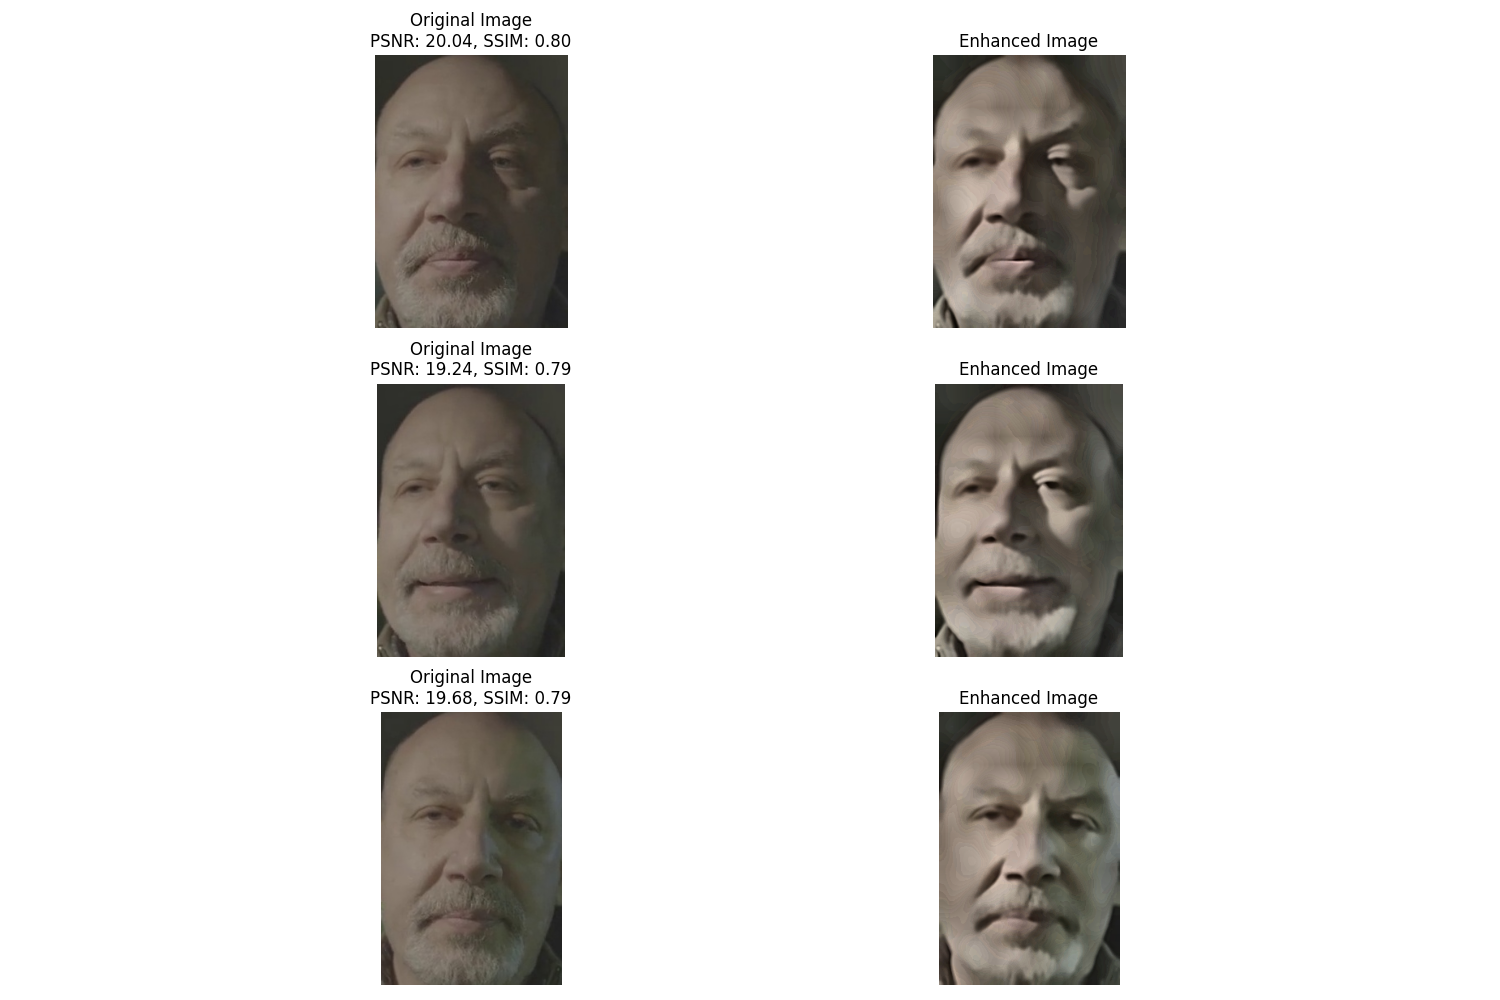
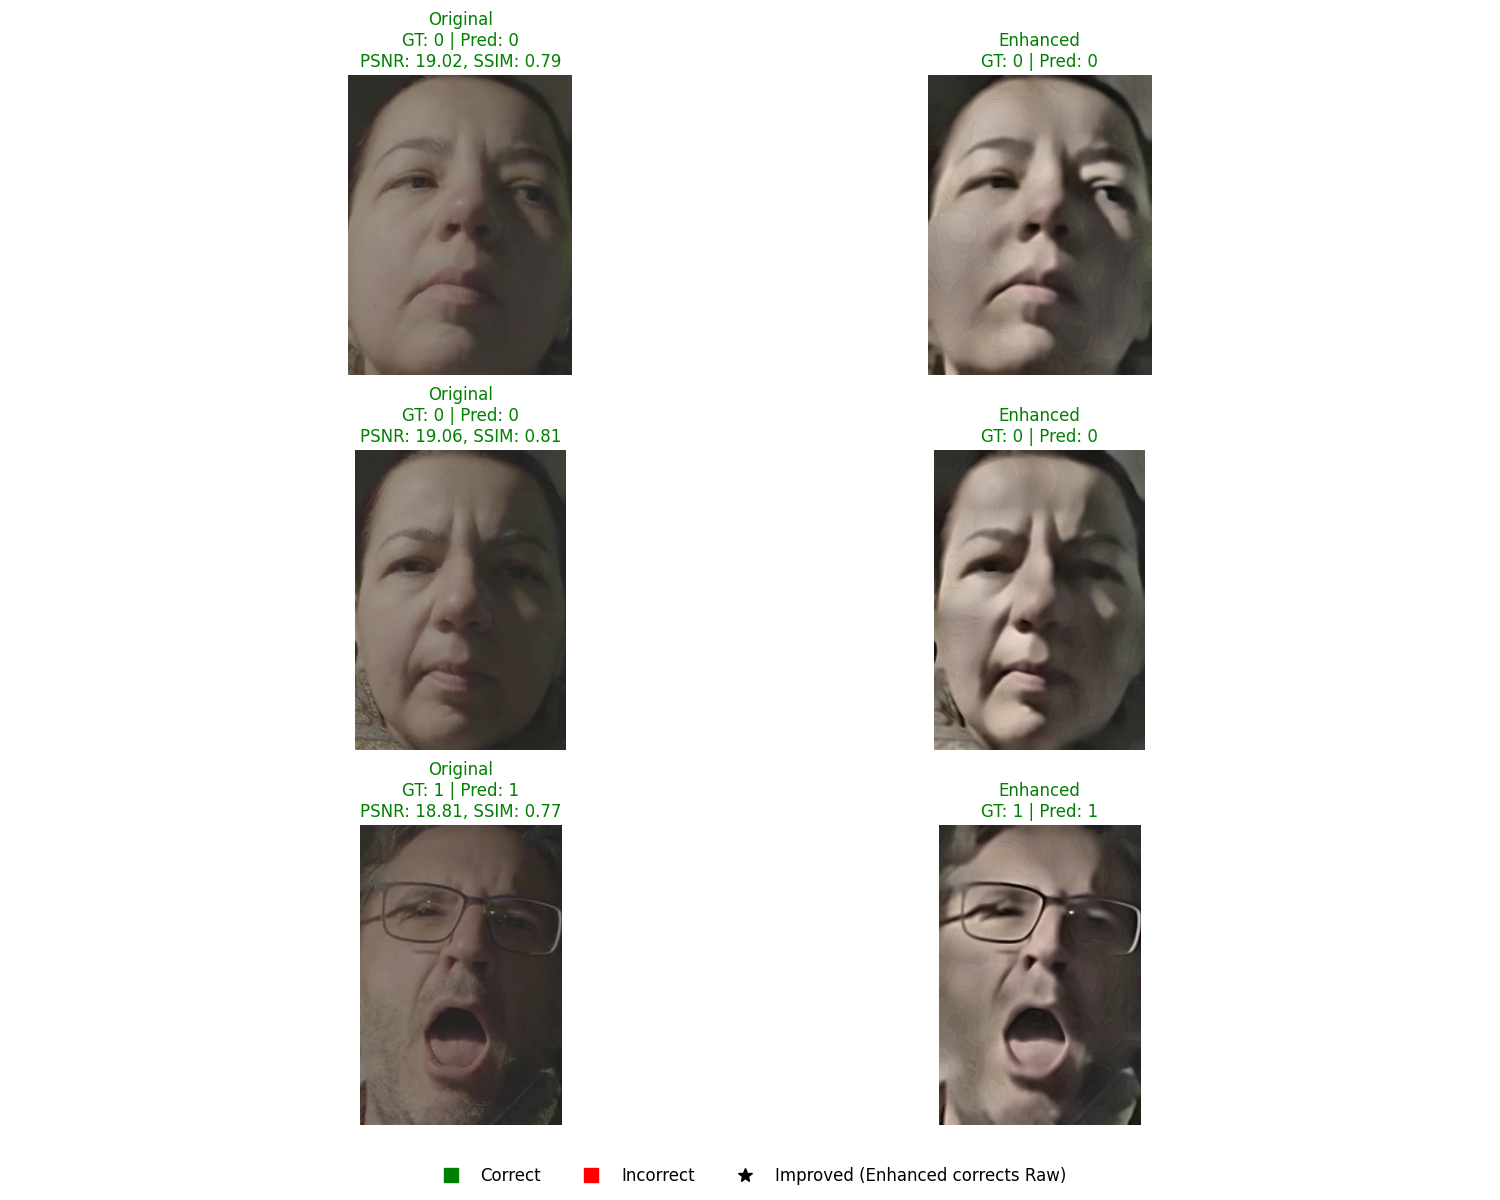
Final Push

Changed region(s): [[0.2147, 0.0, 0.46, 0.992], [0.4907, 0.031, 0.7667, 0.992]]

diff --git a/visualize_results.py b/visualize_results.py
@@ -9,6 +9,8 @@ import cv2
 from enhancement import ImageEnhancer
 from model import DrowsinessDetector
 from data_utils import FL3DDataset, organize_dataset
+import argparse
+from tqdm import tqdm
 
 def visualize_enhancement(image_paths, save_dir='visualization_results'):
     """Visualize original and enhanced images side by side."""
@@ -40,6 +42,78 @@ def visualize_enhancement(image_paths, save_dir='visualization_results'):
     plt.savefig(os.path.join(save_dir, 'enhancement_comparison.png'))
     plt.close()
 
+def visualize_enhancement_with_predictions(image_paths, model, transform, device, labels, save_dir='visualization_results'):
+    """Visualize original and enhanced images side by side with predictions and ground truth, using color coding."""
+    import matplotlib.patches as patches
+    os.makedirs(save_dir, exist_ok=True)
+    enhancer = ImageEnhancer()
+    plt.figure(figsize=(15, 12))
+    legend_handles = []
+    
+    for idx, img_path in enumerate(image_paths[:3]):  # Show first 3 images
+        # Read and enhance image
+        img = cv2.imread(img_path)
+        img_rgb = cv2.cvtColor(img, cv2.COLOR_BGR2RGB)
+        enhanced = enhancer.enhance(img_rgb)
+        gt_label = labels[idx]
+        
+        # Prepare images for model
+        raw_tensor = transform(img_rgb).unsqueeze(0).to(device)
+        enh_tensor = transform(enhanced).unsqueeze(0).to(device)
+        
+        # Get predictions
+        model.eval()
+        with torch.no_grad():
+            raw_pred = (torch.sigmoid(model(raw_tensor)).cpu().item() > 0.5)
+            enh_pred = (torch.sigmoid(model(enh_tensor)).cpu().item() > 0.5)
+        
+        # Determine correctness
+        raw_correct = (raw_pred == gt_label)
+        enh_correct = (enh_pred == gt_label)
+        
+        # Color coding
+        raw_color = 'green' if raw_correct else 'red'
+        enh_color = 'green' if enh_correct else 'red'
+        
+        # Special marker if enhancement corrects a misclassification
+        improved = (not raw_correct) and enh_correct
+        
+        # Calculate metrics
+        metrics = enhancer.calculate_metrics(img_rgb, enhanced)
+        
+        # Plot original image
+        ax1 = plt.subplot(3, 2, idx*2 + 1)
+        ax1.imshow(img_rgb)
+        title = f"Original\nGT: {gt_label} | Pred: {int(raw_pred)}\nPSNR: {metrics['psnr']:.2f}, SSIM: {metrics['ssim']:.2f}"
+        ax1.set_title(title, color=raw_color)
+        ax1.axis('off')
+        # Add colored border
+        for spine in ax1.spines.values():
+            spine.set_edgecolor(raw_color)
+            spine.set_linewidth(4)
+        
+        # Plot enhanced image
+        ax2 = plt.subplot(3, 2, idx*2 + 2)
+        ax2.imshow(enhanced)
+        enh_title = f"Enhanced\nGT: {gt_label} | Pred: {int(enh_pred)}"
+        if improved:
+            enh_title += "\nImproved!"
+        ax2.set_title(enh_title, color=enh_color)
+        ax2.axis('off')
+        for spine in ax2.spines.values():
+            spine.set_edgecolor(enh_color)
+            spine.set_linewidth(4)
+        
+    # Add legend
+    import matplotlib.lines as mlines
+    green_line = mlines.Line2D([], [], color='green', marker='s', linestyle='None', markersize=10, label='Correct')
+    red_line = mlines.Line2D([], [], color='red', marker='s', linestyle='None', markersize=10, label='Incorrect')
+    star = mlines.Line2D([], [], color='black', marker='*', linestyle='None', markersize=10, label='Improved (Enhanced corrects Raw)')
+    plt.figlegend(handles=[green_line, red_line, star], loc='lower center', ncol=3, fontsize=12, frameon=False)
+    plt.tight_layout(rect=[0, 0.05, 1, 1])
+    plt.savefig(os.path.join(save_dir, 'enhancement_comparison.png'))
+    plt.close()
+
 def evaluate_model(model, dataloader, device):
     """Evaluate model and return classification metrics."""
     model.eval()
@@ -47,10 +121,10 @@ def evaluate_model(model, dataloader, device):
     all_labels = []
     
     with torch.no_grad():
-        for images, labels in dataloader:
+        for images, labels in tqdm(dataloader, desc='Evaluating', leave=False):
             images = images.to(device)
             outputs = model(images)
-            preds = (outputs > 0.5).float().cpu().numpy()
+            preds = (torch.sigmoid(outputs) > 0.5).float().cpu().numpy()
             all_preds.extend(preds)
             all_labels.extend(labels.numpy())
     
@@ -95,7 +169,7 @@ def plot_metrics(metrics_raw, metrics_enhanced, save_dir='visualization_results'
     plt.savefig(os.path.join(save_dir, 'metrics_comparison.png'))
     plt.close()
 
-def main():
+def main(args):
     # Set device
     device = torch.device("mps" if torch.backends.mps.is_available() else 
                          "cuda" if torch.cuda.is_available() else "cpu")
@@ -114,57 +188,79 @@ def main():
     data_dir = 'data/classification_frames'
     data_splits = organize_dataset(data_dir)
     
-    # Create datasets
-    train_dataset = FL3DDataset(
-        data_splits['train'][0],
-        data_splits['train'][1],
+    # Create val and test datasets
+    val_dataset = FL3DDataset(
+        data_splits['val'][0],
+        data_splits['val'][1],
         transform=transform,
         enhanced=False
     )
-    
-    train_dataset_enhanced = FL3DDataset(
-        data_splits['train'][0],
-        data_splits['train'][1],
+    val_dataset_enhanced = FL3DDataset(
+        data_splits['val'][0],
+        data_splits['val'][1],
         transform=transform,
         enhanced=True
     )
-    
+    test_dataset = FL3DDataset(
+        data_splits['test'][0],
+        data_splits['test'][1],
+        transform=transform,
+        enhanced=False
+    )
+    test_dataset_enhanced = FL3DDataset(
+        data_splits['test'][0],
+        data_splits['test'][1],
+        transform=transform,
+        enhanced=True
+    )
     # Create dataloaders
-    train_loader = torch.utils.data.DataLoader(
-        train_dataset, batch_size=32, shuffle=False, num_workers=2)
-    train_loader_enhanced = torch.utils.data.DataLoader(
-        train_dataset_enhanced, batch_size=32, shuffle=False, num_workers=2)
+    val_loader = torch.utils.data.DataLoader(
+        val_dataset, batch_size=32, shuffle=False, num_workers=2)
+    val_loader_enhanced = torch.utils.data.DataLoader(
+        val_dataset_enhanced, batch_size=32, shuffle=False, num_workers=2)
+    test_loader = torch.utils.data.DataLoader(
+        test_dataset, batch_size=32, shuffle=False, num_workers=2)
+    test_loader_enhanced = torch.utils.data.DataLoader(
+        test_dataset_enhanced, batch_size=32, shuffle=False, num_workers=2)
     
-    # Load model
-    model = DrowsinessDetector(pretrained=True).to(device)
-    model.load_state_dict(torch.load('checkpoints/best_model.pth'))
+    # Load models
+    model_raw = DrowsinessDetector(pretrained=True).to(device)
+    model_raw.load_state_dict(torch.load(args.raw_model, map_location=device))
+    model_enhanced = DrowsinessDetector(pretrained=True).to(device)
+    model_enhanced.load_state_dict(torch.load(args.enhanced_model, map_location=device))
     
-    # Visualize enhancement results
-    print("Generating enhancement visualizations...")
-    visualize_enhancement(data_splits['train'][0])
+    # Visualize enhancement results with predictions (using enhanced model, val set)
+    print("Generating enhancement visualizations with predictions...")
+    visualize_enhancement_with_predictions(data_splits['val'][0], model_enhanced, transform, device, data_splits['val'][1])
     
-    # Evaluate and compare metrics
-    print("Evaluating model performance...")
-    metrics_raw = evaluate_model(model, train_loader, device)
-    metrics_enhanced = evaluate_model(model, train_loader_enhanced, device)
-    
-    # Plot metrics comparison
-    print("Generating metrics comparison...")
-    plot_metrics(metrics_raw, metrics_enhanced)
-    
-    print("\nResults saved in 'visualization_results' directory:")
-    print("1. enhancement_comparison.png - Visual comparison of original vs enhanced images")
-    print("2. metrics_comparison.png - Comparison of classification metrics")
-    
-    # Print metrics
-    print("\nClassification Metrics:")
-    print("\nRaw Images:")
-    for metric, value in metrics_raw.items():
+    # Evaluate and compare metrics on val set
+    print("Evaluating model performance on validation set...")
+    metrics_val_raw = evaluate_model(model_raw, val_loader, device)
+    metrics_val_enhanced = evaluate_model(model_enhanced, val_loader_enhanced, device)
+    print("\nValidation Set Metrics:")
+    print("Raw Images:")
+    for metric, value in metrics_val_raw.items():
         print(f"{metric.capitalize()}: {value:.4f}")
+    print("Enhanced Images:")
+    for metric, value in metrics_val_enhanced.items():
+        print(f"{metric.capitalize()}: {value:.4f}")
+    plot_metrics(metrics_val_raw, metrics_val_enhanced, save_dir='visualization_results')
     
-    print("\nEnhanced Images:")
-    for metric, value in metrics_enhanced.items():
+    # Evaluate and compare metrics on test set
+    print("\nEvaluating model performance on test set...")
+    metrics_test_raw = evaluate_model(model_raw, test_loader, device)
+    metrics_test_enhanced = evaluate_model(model_enhanced, test_loader_enhanced, device)
+    print("\nTest Set Metrics:")
+    print("Raw Images:")
+    for metric, value in metrics_test_raw.items():
+        print(f"{metric.capitalize()}: {value:.4f}")
+    print("Enhanced Images:")
+    for metric, value in metrics_test_enhanced.items():
         print(f"{metric.capitalize()}: {value:.4f}")
 
 if __name__ == '__main__':
-    main() 
+    parser = argparse.ArgumentParser()
+    parser.add_argument('--raw_model', type=str, default='checkpoints/best_model_raw.pth')
+    parser.add_argument('--enhanced_model', type=str, default='checkpoints/best_model_enhanced.pth')
+    args = parser.parse_args()
+    main(args) 

diff --git a/train.py b/train.py
@@ -49,6 +49,12 @@ def main(args):
     print(f"Val: {len(data_splits['val'][0])} images")
     print(f"Test: {len(data_splits['test'][0])} images")
     
+    # Calculate class weights for BCELoss
+    num_alert = data_splits['train'][1].count(0)
+    num_not_alert = data_splits['train'][1].count(1)
+    pos_weight = torch.tensor([num_alert / num_not_alert], dtype=torch.float32, device=device)
+    print(f"Class weights: pos_weight={pos_weight.item():.4f} (alert: {num_alert}, not alert: {num_not_alert})")
+    
     # Create datasets
     print("\nCreating datasets...")
     train_dataset = FL3DDataset(
@@ -66,16 +72,24 @@ def main(args):
     )
     
     # Create dataloaders with optimized settings for MPS
-    print("\nSetting up data loaders...")
-    num_workers = 2 if device.type == 'mps' else 4
-    train_loader = DataLoader(train_dataset, batch_size=args.batch_size,
+    if device.type == 'mps':
+        batch_size = 64
+        num_workers = 4
+        pin_memory = False
+    else:
+        batch_size = args.batch_size
+        num_workers = 4
+        pin_memory = True
+
+    train_loader = DataLoader(train_dataset, batch_size=batch_size,
                             shuffle=True, num_workers=num_workers,
-                            pin_memory=True)
-    val_loader = DataLoader(val_dataset, batch_size=args.batch_size,
+                            pin_memory=pin_memory)
+    val_loader = DataLoader(val_dataset, batch_size=batch_size,
                           shuffle=False, num_workers=num_workers,
-                          pin_memory=True)
-    print(f"Batch size: {args.batch_size}")
+                          pin_memory=pin_memory)
+    print(f"Batch size: {batch_size}")
     print(f"Number of workers: {num_workers}")
+    print(f"Pin memory: {pin_memory}")
     
     # Initialize model
     print("\nInitializing model...")
@@ -85,7 +99,7 @@ def main(args):
     
     # Loss and optimizer
     print("\nSetting up loss function and optimizer...")
-    criterion = nn.BCELoss()
+    criterion = nn.BCEWithLogitsLoss(pos_weight=pos_weight)
     optimizer = optim.Adam(model.parameters(), lr=args.lr)
     scheduler = optim.lr_scheduler.ReduceLROnPlateau(optimizer, 'max', patience=3)
     print(f"Learning rate: {args.lr}")
@@ -125,11 +139,10 @@ def main(args):
                 print(f"Learning rate adjusted: {old_lr:.6f} -> {new_lr:.6f}")
             
             # Save best model
-            if val_acc > best_val_acc:
-                best_val_acc = val_acc
-                save_path = os.path.join(args.save_dir, 'best_model.pth')
-                torch.save(model.state_dict(), save_path)
-                print(f"\nNew best model saved! (Validation Accuracy: {val_acc:.4f})")
+            model_type = "enhanced" if args.use_enhanced else "raw"
+            save_path = os.path.join(args.save_dir, f'best_model_{model_type}.pth')
+            torch.save(model.state_dict(), save_path)
+            print(f"\nNew best model saved! (Validation Accuracy: {val_acc:.4f}) at {save_path}")
             
             # Clear memory cache for MPS device
             if device.type == 'mps':

diff --git a/data_utils.py b/data_utils.py
@@ -5,6 +5,7 @@ from sklearn.model_selection import train_test_split
 from torch.utils.data import Dataset, DataLoader
 import cv2
 import numpy as np
+from enhancement import ImageEnhancer
 
 class FL3DDataset(Dataset):
     def __init__(self, image_paths, labels, transform=None, enhanced=False):
@@ -12,6 +13,7 @@ class FL3DDataset(Dataset):
         self.labels = labels
         self.transform = transform
         self.enhanced = enhanced
+        self.enhancer = ImageEnhancer() if enhanced else None
         
     def __len__(self):
         return len(self.image_paths)
@@ -22,10 +24,10 @@ class FL3DDataset(Dataset):
         if image is None:
             raise ValueError(f"Could not read image at {img_path}")
         image = cv2.cvtColor(image, cv2.COLOR_BGR2RGB)
-        
+        if self.enhanced and self.enhancer:
+            image = self.enhancer.enhance(image)
         if self.transform:
             image = self.transform(image)
-            
         label = self.labels[idx]
         return image, label
 
@@ -49,9 +51,8 @@ def process_annotations(annotations, data_dir):
         driver_state = ann.get('driver_state', None)
         if driver_state is None:
             continue
-        # You may want to filter/convert driver_state to binary (drowsy/not drowsy)
-        # For now, treat 'drowsy' as 1, everything else as 0
-        label = 1 if driver_state == 'drowsy' else 0
+        # Map driver states to binary labels: alert=0, microsleep/yawning=1
+        label = 0 if driver_state == 'alert' else 1
         image_paths.append(img_path)
         labels.append(label)
     return image_paths, labels

diff --git a/model.py b/model.py
@@ -17,8 +17,7 @@ class DrowsinessDetector(nn.Module):
             nn.Linear(num_features, 512),
             nn.ReLU(),
             nn.Dropout(0.5),
-            nn.Linear(512, 1),
-            nn.Sigmoid()
+            nn.Linear(512, 1)
         )
     
     def forward(self, x):
@@ -46,7 +45,8 @@ def train_epoch(model, dataloader, criterion, optimizer, device):
         optimizer.step()
         
         total_loss += loss.item()
-        predicted = (outputs > 0.5).float()
+        probs = torch.sigmoid(outputs)
+        predicted = (probs > 0.5).float()
         total += labels.size(0)
         correct += (predicted.squeeze() == labels).sum().item()
         
@@ -77,7 +77,8 @@ def evaluate(model, dataloader, criterion, device):
             loss = criterion(outputs, labels.unsqueeze(1))
             
             total_loss += loss.item()
-            predicted = (outputs > 0.5).float()
+            probs = torch.sigmoid(outputs)
+            predicted = (probs > 0.5).float()
             total += labels.size(0)
             correct += (predicted.squeeze() == labels).sum().item()
             
